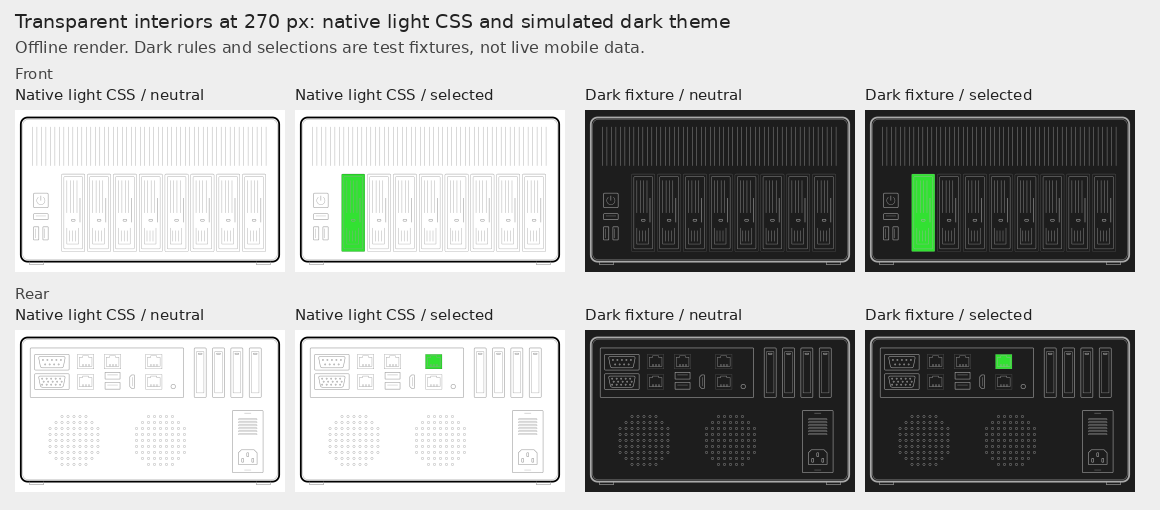
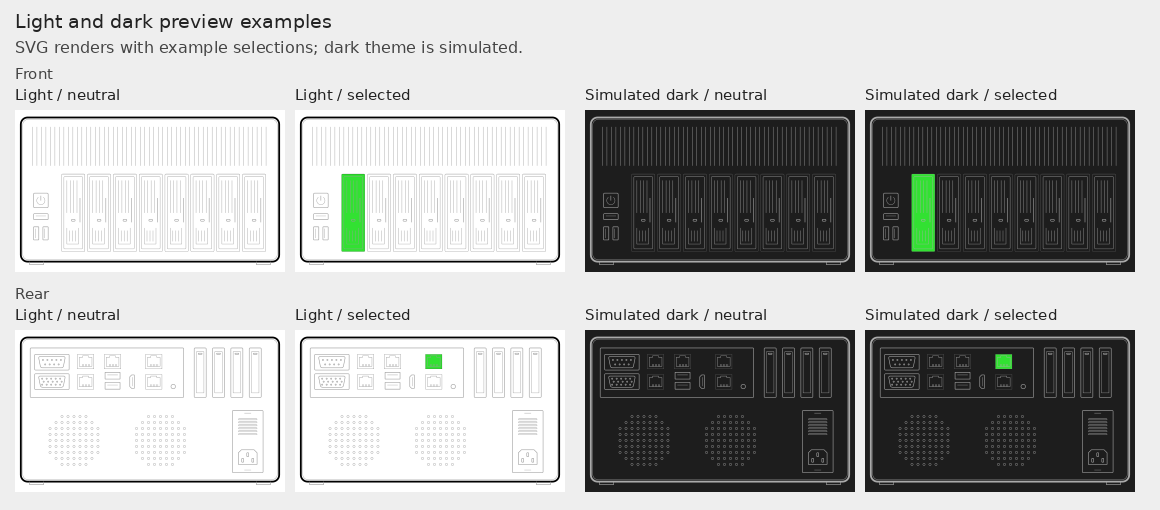
docs: make chassis customization a user guide and remove authoring script

diff --git a/docs/12-custom-chassis-display.md b/docs/12-custom-chassis-display.md
@@ -1,123 +1,94 @@
-# Custom front/rear chassis display and guarded restoration
+# Customize the chassis preview
 
-This optional, display-only follow-up was completed on 2026-10-24 on the **ASRock Rack X570D4U-2L2T**, QTS **6.1.0 / build 20261007**, kernel **6.6.129-qnap**, TS-873A profile. The ordinary X570D4U is not interchangeable with this board. No NIC numbering, MAC, IP, route, disk enumeration, firmware model, user theme or BMC settings were changed. No NAS reboot or firmware update was performed for this work.
+Use a chassis drawing that matches your enclosure without changing the NAS model, network configuration or disk enumeration. This guide covers an **eight-bay enclosure with an ASRock Rack X570D4U-2L2T**, using the **TS-873A profile on QTS 6.1.0, build 20261007**. Complete storage recovery and verify the disks before making cosmetic changes.
 
-## Result and evidence limits
+The example provides eight front trays, power/reset buttons, two vertical front USB sockets and a rear panel with four business LAN ports. The dedicated IPMI connector remains separate. Four rear expansion covers describe the enclosure; the motherboard itself has three PCIe slots.
 
-| Check | Result |
-|---|---|
-| Current front/rear resources | Installed with original hashes checked, permission-preserving backups and per-file atomic replacement |
-| HTTP delivery | Both direct filenames and both `model_0/1.svg` aliases returned HTTP 200 and exactly the approved SVG hashes |
-| Front disk protocol | `hd_0`–`hd_7`, direct child `rect`, runtime `qks-slot`, callbacks and tooltips preserved; 98 offline assertions passed using the installed vendor `Slot` class with a minimal element adapter |
-| Mobile evidence | An operator screenshot showed the new front drawing and five green slots; the operator subsequently accepted the interior-transparency correction |
-| Browser automation | Normal QTS tab creation/read timed out. No claim of comprehensive automated browser hit-testing or all-page acceptance; no security warning or blocked local-file URL was bypassed |
-| Restore installation | Official autorun entry and user-startup switch installed; flash contents re-read after remount; temporary mount removed |
-| Current-state guard execution | Both `--check` and `--apply` returned `OK_ALREADY_APPLIED`; live SVGs were not rewritten |
-| Isolated guard tests | Original recovery, second-run no-op, existing patch, unknown firmware, malformed structure, missing file, changed frontend, mixed files and unknown SVG covered |
-| Real reboot / firmware upgrade | **Not tested.** Installing the trigger and simulating recovery do not prove either |
+![Original QTS preview beside the custom front and rear](../assets/chassis/before-after-270px.png)
 
-The drawing's logical `hd_N` positions are not independent evidence of physical drive order. The earlier [HAL mapping work](05-bay-mapping.md) is a separate validation milestone. This cosmetic change did not reorder disks or operate on real disk data.
+*Equal-width SVG renders of the original and custom previews.*
 
-## Artwork and comparisons
+![Light and dark preview examples with neutral and selected states](../assets/chassis/transparent-light-dark.png)
 
-The front has power/reset buttons, two vertical USB sockets and eight trays. The rear has a horizontally installed I/O panel at upper left, four chassis expansion openings at upper right, two sparse ventilation-hole arrays and a narrow Flex/1U PSU outline. The board has **three actual PCIe slots**; four chassis covers are not four automatically mapped board slots.
+*Example selections, not live device status. The dark view uses simulated theme rules.*
 
-![Original left, custom right at equal 270-pixel display width](../assets/chassis/before-after-270px.png)
+## 1. Prepare the drawings
 
-*Offline rendering of original versus custom front/rear resources at equal size. This is not a screenshot of the live QTS page. Original vendor SVG/CSS source is not redistributed.*
+Start with the [front](../assets/chassis/custom-front.svg) and [rear](../assets/chassis/custom-rear.svg) vector designs. These contain physical-position IDs and no visible labels. They are design sources, **not universal drop-in replacements**: prepare QTS-adapted copies with the native slot and network IDs before installation. For QTS integration, preserve each logical `hd_N` group and its direct child `rect`, use `ethernet_N` wrappers around the corresponding LAN shapes, and keep `.off` / `.on` state classes. QTS supplies the page-specific styles and click bindings.
 
-![Transparent interiors on light and simulated dark backgrounds](../assets/chassis/transparent-light-dark.png)
+Keep the background and unselected interior transparent. Let QTS control selection colors and theme strokes; do not add a full white canvas or use inline colors that override state styles. Some QTS pages intentionally fill an unselected slot, so a transparent source does not imply that every application state is transparent.
 
-*Offline 270-pixel tests: original network CSS on white, simulated theme stroke rules on dark, with neutral and selected examples. The dark rules are a test fixture, not extracted mobile CSS or a live mobile capture. Green selections are test states, not live telemetry. Images contain no host, address, MAC, account or storage identifier.*
+Check both large previews and small thumbnails. Retain a clear outer outline and lighter internal details. USB, HDMI, VGA, COM, fan vents and expansion covers should remain static unless you have verified a matching state source. Do not infer an installed PCIe card from a chassis cover.
 
-Original vector design sources: [front](../assets/chassis/custom-front.svg), [rear](../assets/chassis/custom-rear.svg). These are **design sources**, not a universal drop-in QTS package: the deployed adaptation additionally preserves QTS slot IDs, wrapper groups and native style injection. Do not copy generic physical positions into another host's adapter/disk mapping.
+## 2. Calibrate the ports and bays
 
-### Figure language and reproducibility
+Use the [board's official rear I/O diagram](https://download.asrock.com/Manual/X570D4U-2L2T.pdf) (printed page 12). The regular X570D4U is a different model. For this drawing, LAN2 is above LAN1 in the i210 pair, and LAN4 is above LAN3 in the X550 pair.
 
-All visible labels in these two figures are English, matching this document. The front/rear hardware SVGs contain no visible text. The figures are regenerated from vector inputs by [render_chassis_comparisons.py](../tools/render_chassis_comparisons.py), rather than editing text over an existing screenshot. Supply locally obtained original SVGs, reviewed adapted SVGs, and the original network CSS; vendor inputs remain private. The renderer requires Pillow and PyGObject/GdkPixbuf with SVG support. It never contacts or modifies a NAS.
+The following is an **example display layout**, not a guarantee of interface order on another installation:
 
-```sh
-python3 tools/render_chassis_comparisons.py \
-  --original-dir /path/to/local-original-layout \
-  --adapted-dir /path/to/reviewed-adapted-layout \
-  --network-css /path/to/local-style_layout.css \
-  --output-dir assets/chassis
-```
+| Physical connector | Example QTS label | Example interface | SVG selector |
+|---|---|---|---|
+| i210 upper, LAN2 | Adapter 2 | `eth1` | `ethernet_1` |
+| i210 lower, LAN1 | Adapter 1 | `eth0` | `ethernet_0` |
+| X550 upper, LAN4 | Adapter 4 | `eth5` | `ethernet_3` |
+| X550 lower, LAN3 | Adapter 3 | `eth4` | `ethernet_2` |
 
-The dark-theme rule remains an explicit fixture, and selections remain synthetic. Port confidence is unchanged: X550 positions are user-confirmed; i210 positions are inferred.
+The i210 pair in this example still needs physical verification. Check every port on your own host:
 
-### Transparent interiors and theme behavior
+1. Record each QTS adapter's display name, Linux interface and native `physical_location` selector. Identify its controller with existing system information or read-only `ethtool -i <interface>` output.
+2. Match the physical connector using cable labels or an existing switch port/MAC table. Keep address records private. Do not derive upper/lower order from MAC values, PCI function order or adapter numbering alone.
+3. Set the SVG wrapper ID for that connector, then select each adapter in QTS and check that only the intended connector highlights. Correct the display mapping if necessary; do not rename real interfaces to fit the drawing.
+4. If physical evidence is missing, leave that relationship unbound until it can be checked. No cable disconnection or network reconfiguration is needed for this display work.
 
-An initial full-canvas white rectangle looked wrong on the actual mobile disk page. A first correction removed only the surrounding rectangle but left a white chassis body. The accepted final correction removes that body and unnecessary fixed white fills as well. Static strokes no longer use inline hard-coded black colors in the QTS adaptation; native `.shape`, `.others`, `.off` and `.on` rules determine their appearance.
+“Adapter 4” is not Linux `eth4`. The IPMI RJ45 is not a fifth QTS business adapter: keep it outside the `ethernet_N` mapping. Independent BMC status is not implemented by these drawings.
 
-Blank interior pixels were tested transparent, with state fill retained. Native desktop storage CSS can itself fill `.off` white; this application-owned state rule was **not** overridden with `!important`. Therefore “transparent source” does not mean suppressing every color the host UI deliberately assigns. No system theme was changed. Standalone design sources use `currentColor` with a dark-mode fallback; live QTS continues to own its injected CSS.
+For disks, retain `hd_0`–`hd_7` as logical SVG groups and verify their relationship to the existing [HAL bay mapping](05-bay-mapping.md). Do not assume `hd_0` means Disk 1: backend slot IDs can account for M.2, U.2 and other devices. Selecting a tray in the interface must not change the underlying disk order.
 
-The original viewBox is 251×143; the design uses 720×430. The outline geometry compensates by 720/251 while retaining `.shape`, so the original network/hardware/storage stroke widths (1.68 / 1.4 / 1.5) remain visually comparable. At equal 270-pixel width the network outline is about 1.81 pixels. Internal lines remain lighter.
+## 3. Back up and install the adapted SVGs
 
-## Port mapping and confidence
-
-Read-only QTS network caches, sysfs and controller-driver information established the QTS display name to logical selector relationship. Physical position evidence is recorded separately; MAC ordering was not used to infer a port.
-
-| QTS label | Interface | SVG selector | Rear I/O physical location | Evidence |
-|---|---|---|---|---|
-| Adapter 1 | `eth0` | `ethernet_0` | i210 lower, LAN1 | **Inferred**, explicitly allowed by operator; not physically measured |
-| Adapter 2 | `eth1` | `ethernet_1` | i210 upper, LAN2 | **Inferred**, explicitly allowed by operator; not physically measured |
-| Adapter 3 | `eth4` | `ethernet_2` | X550 lower, LAN3 | **User-confirmed** |
-| Adapter 4 | `eth5` | `ethernet_3` | X550 upper, LAN4 | **User-confirmed** |
-
-“Adapter 4” is not Linux `eth4`. The board's separate IPMI RJ45 stays a static, independent element: no `ethernet_N` alias or fabricated online highlight. BMC independent status display remains unimplemented; native support is not established by the drawing. USB, VGA, COM, HDMI, buttons and chassis PCIe covers show physical locations only unless a real state source and mapping are separately verified.
-
-See the [official X570D4U-2L2T manual](https://download.asrock.com/Manual/X570D4U-2L2T.pdf), rear I/O diagram (printed page 12), for physical connector definitions.
-
-## Native display contracts
-
-Only these two files were replaced:
+Use an existing authorized maintenance session. Only these display resources should change:
 
 ```text
 /home/httpd/v3_menu/layout/ts_873a_0.svg
 /home/httpd/v3_menu/layout/ts_873a_1.svg
 ```
 
-The existing `model_0.svg` and `model_1.svg` symlinks are preserved. `ts_873a_2.svg` (internal M.2), independent product icons, model lists, JavaScript and CSS are unchanged.
+1. Check the firmware/build, current SVG hashes, ownership/modes and `model_0.svg` / `model_1.svg` symlink targets against your reviewed baseline. Stop if they differ unexpectedly.
+2. Save both originals, their hashes and metadata in a protected persistent directory; keep an independent copy off the NAS. Also preserve the current custom version before applying a later correction.
+3. Stage each reviewed SVG in the same filesystem as its target. Preserve the original owner and mode, validate XML and IDs, and verify the staged hash before replacing anything.
+4. Replace each file by atomic rename. The two-file operation is not a single transaction: if it fails partway, restore the saved pair and verify both hashes before continuing.
+5. Leave the model symlinks, internal M.2 view (`ts_873a_2.svg`), product icons, JavaScript, CSS and model-list JSON unchanged.
 
-- Network interface details load front/rear objects, remove embedded styles, inject native CSS and select `.off` descendants of the `physical_location` ID. Selection changes `off` to `off on`.
-- Storage `ChassisGallery` recognizes `hd_`, `m2_ssd_`, `ssd_` and `u2_ssd_`, creates `qks-slot`, binds click callbacks and colors a slot's **direct child** `rect`. Inline fill/stroke colors must not defeat those rules. Backend slot IDs are not necessarily `hd_N + 1`, especially with M.2/U.2 present.
-- Hardware preview loads enabled views and native hardware CSS. PCIe/HDMI state support in the frontend alone does not verify this chassis's physical mapping.
-- Other network information/topology callers reference these resources; their existence was inspected, but every page was not interactively exercised.
+Do not change the firmware model merely to obtain a different picture. This procedure does not require a NAS reboot, service restart or storage operation.
 
-The 98 tests exercise the actual extracted `Slot` implementation with synthetic backend IDs: click callback output, type/sort order, child tooltips, eight state classes, selection/deselection, disabled/reset, switching, multi-selection and clearing. They do not replace browser pointer-event or real-disk tests. Vendor code and private test captures remain local.
+## 4. Verify the result
 
-## Installed restoration mechanism
+- Fetch both direct SVG URLs and both `/v3_menu/layout/model_0.svg` / `model_1.svg` aliases. Confirm HTTP success and matching hashes; this verifies delivery, not browser interaction.
+- Reopen the relevant QTS panels or refresh the client. Check the front/rear previews, small layouts and the mobile light/dark appearance.
+- Select and clear each adapter and tray. Confirm independent highlights, correct physical positions and intact tooltips. A green example in a rendered figure is not evidence of a connected cable or healthy disk.
+- Check every page you use. Network details, storage and hardware previews can inject different styles; one working page does not prove all of them.
 
-The operator separately approved root startup execution. Existing vendor startup code was inspected before making changes. QNAP's official mount helper exposed the flash configuration at `/tmp/nasconfig_tmp`; no existing `autorun.sh` was present, so the installation recorded that absence rather than overwriting another task. The previous `Misc Autorun` setting was unset.
+## 5. Restore after startup and handle updates
 
-The installed entry contains a unique `CODEX_NAS_DISPLAY_GUARD_V1` block which launches a fixed-path guard in the background. `Misc Autorun` is now `TRUE`. The root-owned runtime directory holds the guard/engine, two approved payloads, original SVGs, protocol hash manifests, status and reapplication backups. Directory/entry permissions are 0700 and data/helper files 0600. The execution chain and parent directory are checked for root ownership and non-writable-by-other permissions. No sudoers, SSH access, cron job or unrelated shared-directory permission was changed.
+For automatic restoration, use a reviewed, host-specific guard through QNAP's [user-defined startup mechanism](https://www.qnap.com/en/how-to/faq/article/running-your-own-application-at-startup). This enables root execution at boot. Back up any existing autorun content, add only a distinct restoration block, and keep the guard, manifests and payloads in a root-owned directory that ordinary users cannot modify. The public design files are not a ready-made startup installer.
 
-The guard:
+The guard should wait for resources without blocking startup, do nothing when the approved patch is already present, and restore only known original files whose firmware and frontend protocol checks match. It must retain backups and touch only the two SVGs. Check the firmware/build, model links, full SVG hashes and frontend JS/CSS/JSON hashes before permitting a restore.
 
-1. Waits at most 180 seconds for web assets and network frontend resources, without blocking the parent startup process.
-2. Checks the expected host, exact firmware version/build, model symlink targets, original/patched SVG hashes and nine JS/CSS/JSON protocol baselines. Fixed SVG hashes bind the reviewed full structure; element checks additionally reject missing slot/network groups. Payload and backup hashes are checked before use.
-3. Returns `OK_ALREADY_APPLIED` if both current SVGs match the approved payload. Otherwise it restores only when **both** match the approved originals and all other checks pass.
-4. Backs up current resources, preserves owner/mode, stages files in the target filesystem and atomically renames each of the two SVGs. Failed replacement attempts invoke rollback; a mixed or unfamiliar state is stopped for review.
-5. Writes a status file. Unknown firmware, frontend changes, missing files, altered structure or unrecognized SVGs produce `STOP_NEEDS_REVIEW`; they are never overwritten just because their IDs look similar.
-
-The existing historical `/qts-profile/mods` artwork implementation was also inspected: its allowed targets are TS-877 filenames, not these TS-873A files. It was not modified.
-
-This is **fail-closed restoration**, not a promise of seamless compatibility with arbitrary future updates. A new firmware version needs fresh source inspection, rendering and operator review before its baseline can be approved. The guard can deliberately leave the vendor artwork in place after an update.
-
-### Status, rollback and removal
-
-Private installation paths and host identifiers are omitted from this public guide. On the installed host, use the reviewed runtime path from its deployment manifest:
+After an upgrade, an unfamiliar firmware, frontend or SVG must **stop restoration rather than be overwritten**. The new vendor artwork can remain active until you review and adapt it. Inspect the guard's status before changing its baseline:
 
 ```sh
 sudo cat <runtime-directory>/STATUS.txt
 sudo /bin/sh <runtime-directory>/guard.sh --check
 ```
 
-These are placeholders, not paste-ready commands. The approved `--apply` is idempotent; do not clear an unexplained lock or failure by repeatedly forcing it. Inspect the reason first. Original and pre-change versions were preserved on the NAS and downloaded to the maintenance workstation, with hashes verified. No private backups are published here.
+Replace the placeholder with your protected installation directory. `OK_ALREADY_APPLIED` means no replacement was needed; `STOP_NEEDS_REVIEW` means inspect the reported mismatch. Do not approve a new version simply to silence the check. Recheck the native IDs, styles, interactions and rollback copy first.
 
-For display rollback, require the expected current patch hash and matching backup hash, copy the backup with metadata to same-directory temporary files, then atomically replace only the two SVGs and verify HTTP hashes. A rollback that should remain in place must first disable this restoration entry, otherwise the next boot may reapply the approved patch.
+### Roll back or remove restoration
 
-For removal, use the official mount helper, back up the **current** autorun content, remove only the marked block, and preserve all other blocks. If the file still exactly equals this installation's newly created file, moving it to the protected backup restores its originally absent state. Disable the user-startup switch only if no other authorized startup process now relies on it. Unmount the temporary flash configuration after verification. Keep recovery copies; do not blindly overwrite later autorun edits with an old backup.
+Disable the restoration block before a rollback that should remain in place. Require the expected current patch hash and matching backup hash, stage the saved originals with their metadata, replace the same two SVGs, and verify delivery again. Stop if the current files are an unfamiliar later version.
 
-References: [QNAP startup applications](https://www.qnap.com/en/how-to/faq/article/running-your-own-application-at-startup), [checking autorun execution](https://www.qnap.com/en/how-to/faq/article/how-to-confirm-whether-autorun-sh-actually-runs-at-boot). This follow-up did not reboot to test the startup path and did not upgrade firmware to test rejection after a real update.
+To remove startup restoration, mount the configuration through the official QNAP helper, back up the current autorun content and remove only your marked block. Preserve any other startup tasks. Disable the user-startup switch only when no remaining task needs it, and unmount the temporary configuration afterward. Keep the backups instead of deleting the recovery path.
+
+## Compatibility scope
+
+This example was checked on the stated QTS build for live resource delivery, native slot-protocol behavior and an installed guard's idempotent execution. Physical reboot and firmware-upgrade persistence are not covered by that validation. Use your own acceptance checks before relying on automatic restoration, and do not treat this configuration as a universal hardware profile.

diff --git a/docs/07a-hardware-and-apps.md b/docs/07a-hardware-and-apps.md
@@ -15,9 +15,9 @@ These fixes were verified in the running system on 2026-10-18 and saved into its
 
 The 2026-10-20 follow-up repaired contention between native temperature/fan readers and revalidated continuous real values. That historical CPU90 policy was separately enabled on the case host. The later [6.1 follow-up](11-qts61-upgrade.md#5-compatibility-findings-and-fixes) records the final monitoring result and operator-selected CPU91 limit; neither threshold is a general hardware recommendation.
 
-## Later 6.1 chassis artwork
+## Custom enclosure previews
 
-The [2026-10-24 custom front/rear SVG follow-up](12-custom-chassis-display.md) replaces the TS-873A display resources and installs a separately approved autorun guard. It preserves native disk/network selection protocols and distinguishes user-confirmed from inferred port positions. Its installed-state checks do not establish reboot or firmware-update persistence.
+For a custom eight-bay enclosure on the TS-873A profile, follow the [chassis preview guide](12-custom-chassis-display.md). It covers artwork preparation, port and tray calibration, theme behavior, installation, verification and rollback without changing the hardware profile.
 
 ## CPU, motherboard and fan readings
 

diff --git a/README.zh-CN.md b/README.zh-CN.md
@@ -19,6 +19,6 @@
 
 主板温度和风扇已完成在线适配，最终持久化监控配置还没有再次实体冷启动复验。数据恢复、应用兼容、监控、自动更新分别验收；手动更新成功不等于无人值守更新已验证。CPU91 是本机操作员选择，不能照搬到其他硬件。
 
-## 自建机箱显示与启动恢复
+## 自建机箱预览
 
-[2026-10-24 显示适配记录](docs/12-custom-chassis-display.md)：前后矢量图、内部透明及主题样式兼容、四个网口高亮。万兆上下口由用户确认，千兆上下口仍属获准推测。两份显示资源已部署，autorun 守卫已安装并验证当前状态幂等；实际重启与升级尚未测试，未知版本会停止覆盖。附本地前后对比与深浅色效果图，不冒充实机截图。
+[机箱预览适配指南](docs/12-custom-chassis-display.md)介绍如何准备前后矢量图、校准网口和盘位高亮、验证深浅色效果，以及配置有兼容性检查和回退路径的启动恢复。端口表是这块主板的示例布局，实际使用时按自己的接口与线缆记录核对。

diff --git a/README.md b/README.md
@@ -75,9 +75,9 @@ After reading scope and backup requirements, follow the [Linux command walkthrou
 
 For the full 5.2 → 6.1 experiment, the offline physical upgrade procedure, and release-specific pitfalls, see [QTS 6.1 upgrade and results](docs/11-qts61-upgrade.md).
 
-## Custom chassis display follow-up
+## Match the preview to your enclosure
 
-The [2026-10-24 display follow-up](docs/12-custom-chassis-display.md) adds transparent front/rear vector artwork, four adapter highlights with explicit mapping confidence, and a guarded autorun restore. Current HTTP delivery and installed-state no-op are verified; real reboot/update persistence is not yet tested.
+Use the [custom chassis preview guide](docs/12-custom-chassis-display.md) to prepare front/rear artwork, calibrate port and tray highlights, verify light/dark rendering, and plan guarded restoration with a safe rollback path.
 
 ## Repository contents
 

diff --git a/docs/screenshots.md b/docs/screenshots.md
@@ -2,9 +2,9 @@
 
 Installation, troubleshooting and recovery milestones. Each caption identifies the stage and what the result establishes.
 
-## Custom chassis artwork — 2026-10-24
+## Custom chassis previews
 
-See the [display follow-up](12-custom-chassis-display.md#artwork-and-comparisons) for front/rear comparisons and light/dark effects. These are **offline SVG renders**, not live screenshots; dark theme rules and selections are test fixtures. Private mobile captures were not published.
+The [chassis guide](12-custom-chassis-display.md) includes equal-size front/rear comparisons and light/dark examples. These are SVG renders; selected ports and dark-theme rules illustrate appearance rather than live device status.
 
 ## Hardware and storage follow-up — 2026-10-18
 
